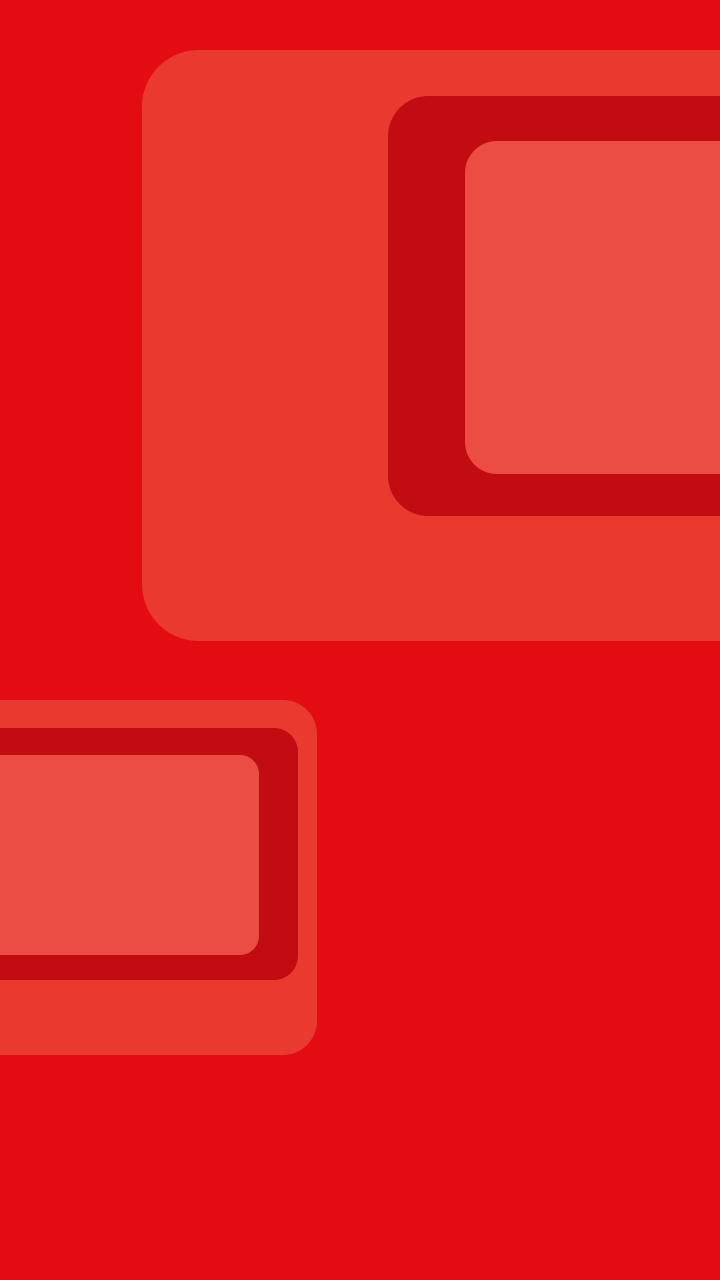
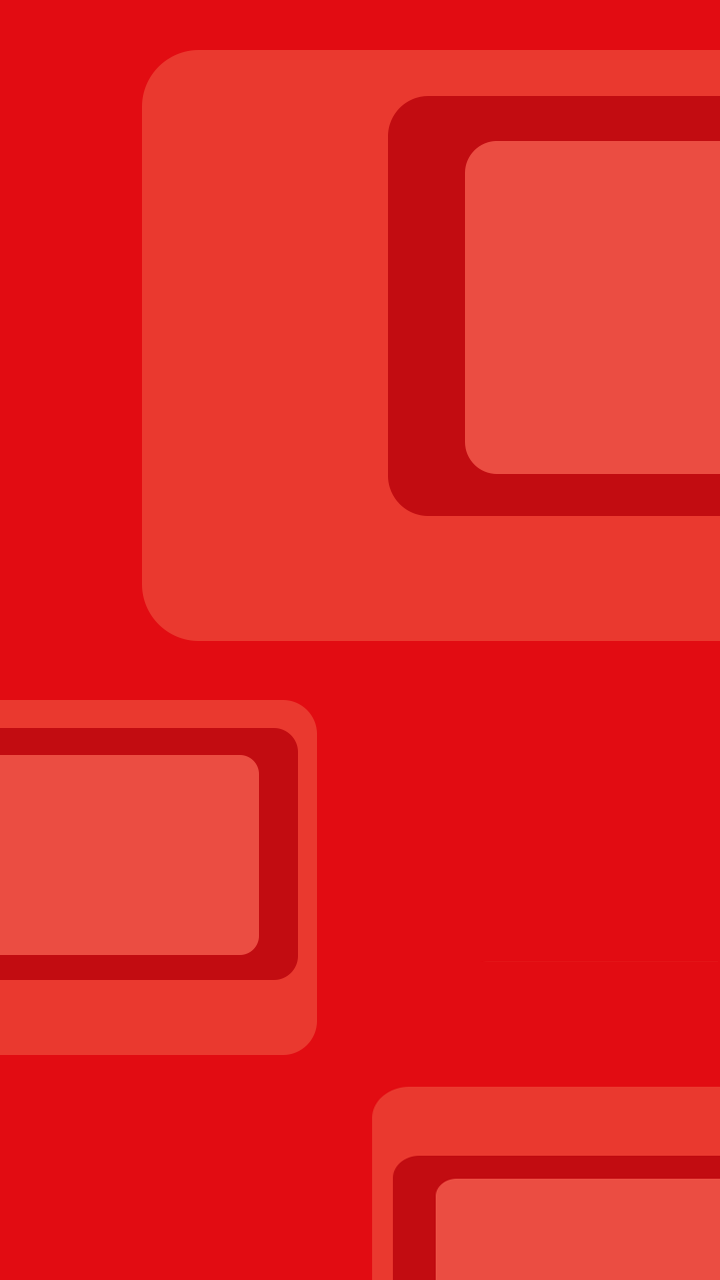
Change Costume

Changed region(s): [[0.5194, 0.8438, 1.0, 1.0]]

diff --git a/src/main.js b/src/main.js
@@ -10,7 +10,6 @@ window.onload = function () {
 
         let _bestScores = { moves: [], time : [] };
 
-
         class Preloader extends Phaser.Scene {
 
             constructor ()
@@ -41,9 +40,13 @@ window.onload = function () {
 
                 this.load.spritesheet('btns2', 'assets/images/btns.png', { frameWidth: 322, frameHeight: 82 });
 
-                this.load.spritesheet('best_btn', 'assets/images/best_btn.png', { frameWidth: 645, frameHeight: 89 });
+                this.load.spritesheet('best_btn', 'assets/images/best_btn.png', { frameWidth: 638, frameHeight: 85 });
 
                 this.load.spritesheet ('skip_btn', 'assets/images/skip_btn.png', { frameWidth: 50, frameHeight: 50 });
+
+                this.load.spritesheet ('click', 'assets/images/click.png', { frameWidth: 550, frameHeight: 65 });
+
+                this.load.spritesheet ('startLevel', 'assets/images/startLevel.png', { frameWidth: 326, frameHeight: 80 });
 
 
                 this.load.image ('bg', 'assets/images/bg.png');
@@ -54,8 +57,6 @@ window.onload = function () {
 
                 this.load.image ('table', 'assets/images/table.png');
 
-                this.load.image ('click', 'assets/images/click.png');
-
                 this.load.image ('panel', 'assets/images/panel.png');
 
                 this.load.image ('home_btn', 'assets/images/home_btn.png');
@@ -63,7 +64,6 @@ window.onload = function () {
                 this.load.image ('prompt', 'assets/images/prompt.png');
 
                 this.load.image ('best_scores', 'assets/images/best_scores.png');
-
 
                 this.add.text ( _gW/2, _gH/2, '', { fontSize: 20*_scale, fontFamily:'Oswald', color:'#fff'}).setOrigin(0.5);
 
@@ -104,6 +104,8 @@ window.onload = function () {
 
                 this.initTable ();
                 
+                //this.initData ();
+
                 this.initScores ();
 
             }
@@ -124,9 +126,6 @@ window.onload = function () {
                 let title = this.add.image (_gW/2, _gH/2, 'title').setScale (_gW/720);
 
 
-                let click = this.add.image (_gW/2, _gH/2, 'click').setScale (_gW/720);
-
-
                 //set player details..
 
                 let ry = _gH * 0.48, rz = 120 * _scale;
@@ -138,9 +137,25 @@ window.onload = function () {
                 this.add.image ( _gW/2, ry, 'dude').setDisplaySize( rz, rz);
 
 
-                let rect = this.add.rectangle ( _gW/2, 353 * _scale, 550 * _scale, 90 * _scale );
+                //click..
+
+                let clickCon = this.add.container ( -_gW/2, 353 * _scale ).setSize( 544* _scale, 63 * _scale);
             
-                rect.once ('pointerdown', function () {
+                let clickimg = this.add.image (0, 0, 'click').setScale (_gW/720);
+
+                clickCon.add ( clickimg );
+
+
+                clickCon.on ('pointerover', function () {
+                    this.getAt (0).setFrame ( 1 );
+                });
+                clickCon.on ('pointerup', function () {
+                    this.getAt (0).setFrame ( 0 );
+                });
+                clickCon.on ('pointerout', function () {
+                    this.getAt (0).setFrame ( 0 );
+                });
+                clickCon.once ('pointerdown', function () {
                     
                     this.scene.music.play('clicka');
 
@@ -148,9 +163,26 @@ window.onload = function () {
             
                 });
 
-                this.time.delayedCall ( 1000, function () {
-                    rect.setInteractive();
-                },[], this );
+
+                let delayEntry = 900;
+
+                this.tweens.add ({
+                    targets: clickCon,
+                    x : _gW/2,
+                    duration : 300,
+                    ease : 'Power2',
+                    delay : delayEntry,
+                    onComplete : function () {
+                        this.targets [0].setInteractive ();
+                    }
+                })
+
+               this.time.delayedCall ( delayEntry, function () {
+                    this.music.play ('move');
+                },[], this  );
+
+                
+               
 
 
             }
@@ -198,10 +230,15 @@ window.onload = function () {
 
 
             }
-            initScores () {
-
+            initData () {
+                 
+                var initData = {
+                    bestScores : _bestScores.moves.toString(),
+                    bestTime : _bestScores.time.toString(),
+                }
+                this.facebook.saveData ( initData );
                 
-                /* this.facebook.data.set('bestScores', _bestScores.moves.toString() );
+                //this.facebook.data.set('bestScores', _bestScores.moves.toString() );
 
                 this.facebook.on('savedata', function (data) {
 
@@ -212,7 +249,12 @@ window.onload = function () {
                 this.facebook.on('savedatafail', function (error) {
                 
                     console.log ('error saving data : gamescreen');
-                });   */
+                });   
+
+            }
+            initScores () {
+
+               
                
                 
 
@@ -297,8 +339,6 @@ window.onload = function () {
             }
             initGame () {
                 
-                this.facebook.removeAllListeners();
-
                 this.bgmusic.stop();
                 
                 this.time.delayedCall (500, function () {
@@ -460,6 +500,8 @@ window.onload = function () {
 
                 this.scoreTotal = r * c / 2;
 
+                this.isInitPrompted = false;
+
                 this.score = 0;
 
                 this.moves = 0;
@@ -472,6 +514,8 @@ window.onload = function () {
 
                 this.createTiles ( r, c );
 
+                this.showInitPrompt ();
+
                 this.controlBtns[1].disableInteractive().setAlpha(0.3);
                 this.controlBtns[2].disableInteractive().setAlpha(0.3);
 
@@ -480,8 +524,9 @@ window.onload = function () {
                     if ( this.gmLvl < 3 ) this.controlBtns[2].setInteractive().setAlpha(1);
                 }, [], this);
 
-                this.gameTimer = this.time.addEvent ({ delay:1000, loop:true, callback: this.showTimer, callbackScope:this });
+                this.gameTimer = this.time.addEvent ({ delay:1000, loop:true, callback: this.showTimer, callbackScope:this, paused:true });
                 
+
 
             }
             showTimer () {
@@ -588,6 +633,10 @@ window.onload = function () {
 
                 this.playSound ('move');
 
+            }
+            startLevel () {
+                this.removeInitPrompt ();
+                this.gameTimer.paused = false;
             }
             removeTiles () {
                 this.tilesContainer.destroy ();
@@ -885,6 +934,62 @@ window.onload = function () {
                 
 
             }
+            showInitPrompt () {
+                
+                this.isInitPrompted = true;
+
+                this.startLevelContainer = this.add.container ( 0, 0 );
+
+                let timeVal = 'Time: ' + this.convertToTime(_bestScores.time [this.gmLvl -1]),
+                    moveVal = 'Moves: ' +  this.convertMove (_bestScores.moves [this.gmLvl - 1]);
+
+               
+                let configlvlTxt2 = { color : "#fff", fontFamily : 'Oswald', fontSize : 36*_scale };
+
+                let smREct = this.add.rectangle (_gW/2, _gH/2, _gW, _gH *0.65 ).setInteractive ();
+
+                let img = this.add.image (_gW/2, _gH/2, 'prompt').setScale(_scale) ;
+
+
+                let title = this.add.text ( _gW/2, 495*_scale, 'Level Stats',  configlvlTxt2 ).setOrigin ( 0.5 );
+
+                title.setShadow  ( 0, 2, '#000', 3, false, true );
+
+
+                let txt1 = this.add.text ( _gW/2, 580*_scale, timeVal,  configlvlTxt2 ).setOrigin ( 0.5 );
+
+                let txt2 = this.add.text ( _gW/2, 645*_scale, moveVal, configlvlTxt2 ).setOrigin ( 0.5 );
+                
+                let btn = this.add.image ( _gW/2, 735 * _scale, 'startLevel').setScale (_scale).setInteractive();
+
+                btn.on ('pointerover', function () {
+                    this.setFrame (1);
+                });
+                btn.on ('pointerout', function () {
+                    this.setFrame (0);
+                });
+                btn.on ('pointerup', function () {
+                    this.setFrame (0);
+                });
+                btn.on ('pointerdown', function () {
+
+                    this.playSound ('clicka');
+                    this.startLevel();
+
+                }, this);
+                
+                this.startLevelContainer.add ( [ smREct, img, title, txt1, txt2, btn ]);
+
+              
+
+            }
+            removeInitPrompt () {
+
+                this.isInitPrompted = false;
+
+                this.startLevelContainer.destroy();
+
+            }
             showPrompt ( end = false ) {
 
                 this.bgRect = this.add.rectangle (0,0, _gW, _gH, 0x0a0a0a, 0.7).setOrigin (0).setInteractive();
@@ -1050,12 +1155,14 @@ window.onload = function () {
                     easeParams : [0.5, 1],
                     ease : 'Elastic',
                     onComplete : function () {
+
                         _this.promptScreen.destroy ();
                         _this.bgRect.destroy();
-                        _this.gameTimer.paused=false;
-                    }
-                });
 
+                        if ( !_this.isInitPrompted ) _this.gameTimer.paused=false;
+                    }
+
+                });
 
             }
             controlsClick ( id ) {
@@ -1084,17 +1191,25 @@ window.onload = function () {
                         break;
                 }
 
-            
             }
             changeLevel () {
                 
                 for ( let i in this.skipBtn ) {
                     this.skipBtn[i].disableInteractive ().setAlpha (0.5);
                 }
+
+                if ( this.isInitPrompted ) this.removeInitPrompt ();
                 
                 this.removeTiles();
 
                 this.initGame ();
+
+            }
+            convertMove ( mov) {
+
+                if ( parseInt ( mov ) < 10 ) return '0' + mov;
+
+                return mov;
 
             }
             convertToTime ( sec ) {
@@ -1117,7 +1232,8 @@ window.onload = function () {
             }
             leaveGame () {
 
-                this.facebook.removeAllListeners();
+                this.facebook.removeListener ('savedata');
+                this.facebook.removeListener ('savedatafail');
 
                 this.gameTimer.destroy ();
 

diff --git a/index.html b/index.html
@@ -31,7 +31,7 @@
             }
             #game_div {
                 width: 100%;
-                max-width: 430px;
+                max-width: 446px;
             }
         </style>
 
